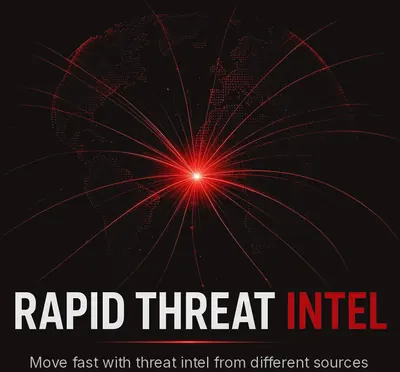
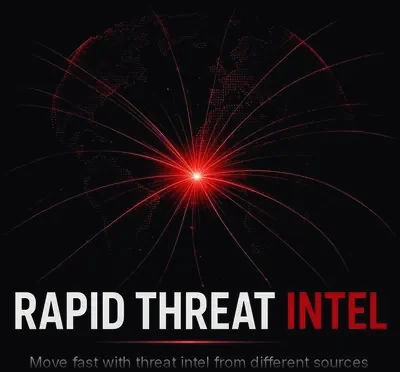
Darker dashboard design and last checked time

Changed region(s): [[0.06, 0.9462, 0.93, 1.0]]

diff --git a/site/style.css b/site/style.css
@@ -579,3 +579,80 @@ td.none { text-align: center; padding: 32px; color: var(--ink-3); font-size: 14p
 
 /* Buy Me a Coffee: official yellow logo, kept in colour (no hover tint) */
 .foot-links .ico-bmc { width: 16px; height: 16px; margin-top: 2px; border-radius: 4px; }
+
+/* Depth layer: deeper ground, one soft glow behind the hero, a faint grid, lifted panels. CSS only. */
+:root {
+  --bg: #08080a;
+  --well: #050506;
+  --raise: #151518;
+  --surf: #0e0e11;
+  --foot: #0a0a0c;
+  --line: #26262b;
+  --line-2: #38383e;
+  --glow: rgba(242, 19, 104, .32);
+}
+html { background: var(--bg); }
+body { background: transparent; }
+body::before {
+  content: ""; position: fixed; inset: 0; z-index: -1; pointer-events: none;
+  background-image: linear-gradient(rgba(255, 255, 255, .028) 1px, transparent 1px), linear-gradient(90deg, rgba(255, 255, 255, .028) 1px, transparent 1px);
+  background-size: 56px 56px;
+  -webkit-mask-image: radial-gradient(ellipse 90% 70% at 50% 0%, #000 30%, transparent 85%);
+  mask-image: radial-gradient(ellipse 90% 70% at 50% 0%, #000 30%, transparent 85%);
+}
+.bar { background: rgba(8, 8, 10, .82); border-bottom-color: rgba(255, 255, 255, .06); }
+.dot { box-shadow: 0 0 6px rgba(242, 19, 104, .5); animation: ping 2.4s var(--ease) infinite, glowdot 2.4s ease-in-out infinite; }
+@keyframes glowdot { 50% { background: #ff4f8f; } }
+.banner img { mix-blend-mode: lighten; }
+
+/* Section headings: a small accent marker */
+.sec-h h2, .ind-head h2, .rail-h h2, h2.rail-h, .blk-sec > h2 { padding-left: 13px; background: linear-gradient(var(--pink), var(--pink)) 0 50% / 3px 14px no-repeat; }
+h2.rail-h, .blk-sec > h2 { background-position: 0 calc(50% - 4px); }
+.sec-h { border-bottom-color: var(--line); }
+
+/* Lifted surfaces */
+.ledger, .rail-box, .row, .search, .side .blk-sec, .hq-code, .tbl-wrap, .empty-state {
+  border-radius: 8px;
+}
+.ledger { background: linear-gradient(180deg, rgba(255, 255, 255, .035), rgba(255, 255, 255, .012)); border: 1px solid var(--line); box-shadow: 0 1px 0 rgba(255, 255, 255, .03) inset, 0 18px 40px -28px rgba(0, 0, 0, .9); }
+.cell:first-child { padding-left: 24px; }
+.rail-box { padding: 16px; background: var(--surf); border: 1px solid var(--line); transition: border-color .2s, box-shadow .2s; }
+.rail-box:hover, .rail-box:focus-within { border-color: rgba(242, 19, 104, .28); box-shadow: 0 0 0 1px rgba(242, 19, 104, .06), 0 10px 30px -18px var(--glow); }
+.rail { gap: 16px; }
+.search { overflow: hidden; background: var(--well); }
+.search:focus-within { box-shadow: 0 0 0 3px rgba(242, 19, 104, .16), 0 0 28px -6px var(--glow); }
+.feed-cols { border-bottom: 0; }
+.rows { display: grid; gap: 10px; }
+.row { background: var(--surf); border: 1px solid var(--line); overflow: hidden; transition: border-color .2s, box-shadow .2s, transform .2s var(--ease); }
+.row:hover, .row:focus-within { border-color: rgba(242, 19, 104, .32); box-shadow: 0 12px 34px -20px var(--glow); }
+.row-in:hover, .row-in:focus-within { background: rgba(255, 255, 255, .02); }
+.row.skel { border: 0; }
+.side .blk-sec { padding: 16px; background: var(--surf); border: 1px solid var(--line); }
+.hq-code { background: var(--well); border-color: var(--line); }
+.tbl-wrap { border: 1px solid var(--line); }
+thead th { background: #1b1b20; }
+tbody tr:last-child td { border-bottom: 0; }
+.caution { background: var(--surf); border-color: var(--line); border-left-color: var(--block); }
+.foot { position: relative; border-top-color: transparent; }
+.foot::before { content: ""; position: absolute; left: 0; right: 0; top: -1px; height: 1px; background: linear-gradient(90deg, transparent, rgba(242, 19, 104, .55), transparent); }
+
+/* One entrance: sections fade up in sequence on load */
+.brief, .strip, .check, .console { animation: rise .6s var(--ease) both; }
+.strip { animation-delay: .06s; } .check { animation-delay: .12s; } .console { animation-delay: .18s; }
+@media (max-width: 720px) {
+  .cell:nth-child(odd) { padding-left: 16px; }
+  .rail-box { padding: 14px; }
+}
+@media (prefers-reduced-motion: reduce) {
+  .brief, .strip, .check, .console, .dot { animation: none; }
+  .row, .rail-box { transition: none; }
+}
+
+/* Header status: last data update and last source check */
+.pulse-in { display: flex; align-items: center; gap: 10px; }
+.pulse-ck { padding-left: 10px; border-left: 1px solid var(--line-2); color: var(--ink-3); }
+@media (max-width: 720px) {
+  .pulse-in { flex-direction: column; align-items: flex-end; gap: 3px; }
+  .pulse-ck { padding-left: 0; border-left: 0; font-size: 11px; color: #8d858a; }
+  #pulse-t > .pl:first-child { display: inline; }
+}

diff --git a/site/index.html b/site/index.html
@@ -6,13 +6,13 @@
 <meta http-equiv="Content-Security-Policy" content="default-src 'self'; script-src 'self' https://gc.zgo.at; style-src 'self'; font-src 'self'; img-src 'self' data: https://daniyyell.goatcounter.com; connect-src 'self' https://raw.githubusercontent.com https://daniyyell.goatcounter.com https://rti-visitors.daniyyell90.workers.dev; object-src 'none'; base-uri 'self'; form-action 'none'">
 <meta name="referrer" content="no-referrer">
 <meta name="color-scheme" content="dark">
-<meta name="theme-color" content="#141010">
+<meta name="theme-color" content="#08080a">
 <meta name="description" content="Agentic AI collects it, analysts verify it, the community acts on it. Live feed of curated, deduplicated indicators of compromise with block lists, Defender XDR import files and hunting queries.">
 <title>Rapid Threat Intel – Live feed</title>
 <link rel="icon" href="data:,">
 <link rel="preload" href="img/logo-wordmark.webp" as="image" type="image/webp">
 <link rel="preload" href="fonts/roboto-700-normal.woff2" as="font" type="font/woff2" crossorigin>
-<link rel="stylesheet" href="style.css?v=dbd5d136">
+<link rel="stylesheet" href="style.css?v=4a0a1894">
 </head>
 <body>
 <a class="skip" href="#main">Skip to content</a>
@@ -24,7 +24,7 @@
       <img class="mark-w" src="img/logo-wordmark.webp" width="495" height="56" alt="Rapid Threat Intel">
       <span class="mark-s">Live feed</span>
     </a>
-    <p class="pulse" id="pulse" aria-live="polite"><span class="dot" aria-hidden="true"></span><span id="pulse-t">Loading feed</span></p>
+    <p class="pulse" id="pulse" aria-live="polite"><span class="dot" aria-hidden="true"></span><span class="pulse-in"><span id="pulse-t">Loading feed</span><span class="pulse-ck" id="pulse-ck" hidden></span></span></p>
     <nav class="bar-nav" aria-label="Project">
       <a href="https://github.com/daniyyell-dev/rapid-threat-intel/blob/main/docs/dashboard.md">Docs</a>
       <a href="https://github.com/daniyyell-dev/rapid-threat-intel">Repository</a>
@@ -174,7 +174,7 @@
   </div>
 </footer>
 <div id="toast" class="toast" role="status" aria-live="polite"></div>
-<script src="app.js?v=86d46aad"></script>
+<script src="app.js?v=dc8a94bb"></script>
 <script data-goatcounter="https://daniyyell.goatcounter.com/count" async src="https://gc.zgo.at/count.js"></script>
 </body>
 </html>

diff --git a/site/app.js b/site/app.js
@@ -745,6 +745,22 @@
   window.addEventListener("focus", visitsStart);
   if (!document.hidden) visitsStart(); else visitsTick();
 
+  // When the scheduled run last checked its sources (status.json), shown even when nothing new was added.
+  var UK_TIME = new Intl.DateTimeFormat("en-GB", { timeZone: "Europe/London", hour: "2-digit", minute: "2-digit", hourCycle: "h23" });
+  var UK_DAY = new Intl.DateTimeFormat("en-GB", { timeZone: "Europe/London", day: "numeric", month: "short" });
+  function loadChecked() {
+    getJSON("status.json?t=" + Date.now()).then(function (st) {
+      var d = new Date(st && st.last_checked), el = $("pulse-ck");
+      if (!el || isNaN(d)) return;
+      var today = UK_DAY.format(d) === UK_DAY.format(new Date());
+      add(clear(el), ["Checked ", today ? "" : UK_DAY.format(d) + " ", UK_TIME.format(d) + " UK"]);
+      el.title = "Sources last checked " + UK_DAY.format(d) + " " + UK_TIME.format(d) + " UK time";
+      el.hidden = false;
+    }, function () {});
+  }
+  loadChecked();
+  setInterval(function () { if (!document.hidden) loadChecked(); }, 120000);
+
   fetch("feed.json", { cache: "no-cache" })
     .then(function (r) { if (!r.ok) throw new Error(r.status); return r.json(); })
     .then(init)
